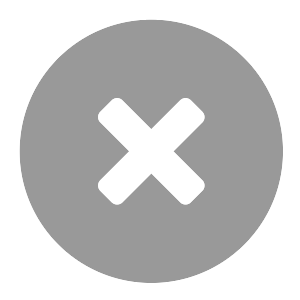
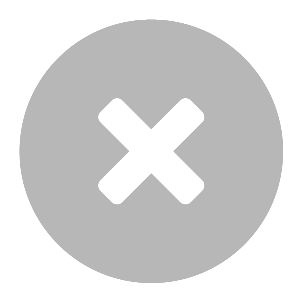
change

diff --git a/src/example/leader/company-detail.html b/src/example/leader/company-detail.html
@@ -218,6 +218,12 @@
             $('.link-delete').show();
             $('#change').hide();
             $('.link-alert').addClass('link-man');
+            if($('#legal-name').html()==''){
+                $('#add-legal').html('<div class="add-legal-person"><span class="add-icon">+</span>新增法人</div>');
+            };
+            if($('#legal-name').html()!=''){
+                $('#add-legal').hide();
+            };
             $('#empty-name').on('click',function(){
                 $('#input-change').val('');
                 $('#input-change').focus();
@@ -279,9 +285,6 @@
                     $('#police').html($(this).text());
                     var policeId = $(this).attr('id');
                     $('#container').data('data-add-policeId', policeId);
-                    if ($('#police').text() != '') {
-                        $('#icon2').hide();
-                    }
                     hideActionSheet();
                 });
             });
@@ -293,9 +296,6 @@
                     $('#fire').html($(this).text());
                     var fireId = $(this).data('fire');
                     $('#container').data('data-add-fireId',fireId);
-                    if($('#fire').text()!=''){
-                        $('#icon4').hide();
-                    }
                     hideActionSheet();
                 });
             });
@@ -329,6 +329,9 @@
                     $('#alert,#alertbackground').fadeOut(100);
                     var legalName = $('#legal-person-name').val();
                     $('#legal-name').html(legalName);
+                    if($('#legal-name').html()!=''){
+                        $('#add-legal').hide();
+                    }
                     var legalPhone = $('#legal-phone').val();
                     $('#mobile-num').html(legalPhone);
                     var legalCompanyNum = $('#legal-company-tel-num').val();
@@ -350,7 +353,7 @@
                 });
             });
             $('#news-change').after(
-                    '<div class="add-line" id="add-linkman"><span class="add">+</span>新增联系人<img src="images/icon-go.jpg" class="lt-img"/></div>'
+                    '<div class="add-line" id="add-linkman"><span class="add">+</span>新增联系人</div>'
             );
             //删除及添加修改联系人
             $('#add-linkman').on('click',function(){
@@ -448,7 +451,7 @@
             $('#save').on('click',function(){
                 $('.bd-right').css('margin-right','0');
                 $('.icon-go-width').hide();
-                $('link-delete').hide()
+                $('.link-delete').hide();
                 $('#classify').unbind();
                 $('#group').unbind();
                 $('#legal-person').unbind();
@@ -620,14 +623,14 @@
                                 '<div class="weui-cell__bd bd-right" id="company-name">'+
                                 company+
                                 '</div>'+
-                                '<img src="images/empty.png" class="icon-go-width" id="empty-name"/> '+
+                                '<img src="images/empty.png" class="icon-go-width empty-input" id="empty-name"/> '+
                                 '</div>'+
                                 '<div class="none-flex cell-border cell-margin">'+
                                 '<div class="weui-cell__hd"><label class="weui-label">企业地址</label></div>'+
                                 '<div class="weui-cell__bd bd-right place-top" id="company-place">'+
                                 address+
                                 '</div>'+
-                                '<img src="images/empty.png" class="icon-go-width" id="empty-place"/> '+
+                                '<img src="images/empty.png" class="icon-go-width empty-input" id="empty-place"/> '+
                                 '</div>'+
                                 '<div class="none-flex cell-border cell-margin">'+
                                 '<div class="weui-cell__hd"><label class="weui-label">企业分类</label></div>'+
@@ -659,7 +662,7 @@
                                 '</div>'+
                                 '<div class="head-title">法人</div>'+
                                 '<div class="none-flex cell-border cell-margin head-title-border" id="legal-person">'+
-                                '<div class="weui-cell__hd"><label class="weui-label" id="legal-name" data-cardid="'+legalPersonCard+'">'+legalPersonName+'</label></div>'+
+                                '<div class="weui-cell__hd"><label class="weui-label" id="legal-name" data-cardid="'+legalPersonCard+'">'+legalPersonName+'</label></div><div id="add-legal"></div>'+
                                 '<div class="weui-cell__bd bd-right">'+
                                 '<span id="mobile-num">'+legalPersonPhone+'</span><span id="symbol">/</span><span id="tel-num">'+legalPersonMobile+'</span>'+
                                 '</div>'+

diff --git a/src/example/leader/add-company.html b/src/example/leader/add-company.html
@@ -51,7 +51,7 @@
             </div>
             <div class="head-title">联系人</div>
                 <div id="link-box"></div>
-                <div class="add-line" id="add-linkman"><span class="add">+</span>新增联系人<img src="images/icon-go.jpg" class="lt-img"/></div>
+                <div class="add-line" id="add-linkman"><span class="add">+</span>新增联系人</div>
              </div>
             <div class="prompt active" id="notNull">请填选必填项</div>
         </div>
@@ -200,32 +200,30 @@
         $('#iosActionsheetCancel-police').on('click', hideActionSheet);
         $('#iosActionsheetCancel-fire').on('click', hideActionSheet);
         //选择企业分类
-        $.ajax({
-            type: "POST",
-            url: "api/companyType.json",
-            data:{userid:$('#userid').val()},
-            success: function (data) {
-                for(var i = 0;i<data.length;i++){
-                    $('#choice-list').append('<div class="weui-actionsheet__cell type-choice-name" id='+data[i].id+'>'+data[i].name+'</div>');
-                }
-            },
-            error: function () {
-                console.log("error");
-            }
-        });
-            $('#classify').on('click',function(){
-                $iosActionsheet.addClass('weui-actionsheet_toggle');
-                $iosMask.fadeIn(200);
-                $('.type-choice-name').on('click',function(){
-                    $('#classify').html($(this).text());
-                    var typeId = $(this).attr('id');
-                    $('#container').data('data-add-typeId',typeId);
-                    if($('#classify').text()!=''){
-                        $('#icon1').hide();
+        $('#classify').on('click',function(){
+            $('#choice-list').html('');
+            $.ajax({
+                type: "POST",
+                url: "api/companyType.json",
+                data:{userid:$('#userid').val()},
+                success: function (data) {
+                    for(var i = 0;i<data.length;i++){
+                        $('#choice-list').append('<div class="weui-actionsheet__cell type-choice-name" id='+data[i].id+'>'+data[i].name+'</div>');
                     }
-                    hideActionSheet();
-                });
+                    $iosActionsheet.addClass('weui-actionsheet_toggle');
+                    $iosMask.fadeIn(200);
+                    $('.type-choice-name').on('click',function(){
+                        $('#classify').html($(this).text());
+                        var typeId = $(this).attr('id');
+                        $('#container').data('data-add-typeId',typeId);
+                        hideActionSheet();
+                    });
+                },
+                error: function (mes) {
+                    console.log("error");
+                }
             });
+        });
         //选择辖区
         $.ajax({
             type: "POST",
@@ -247,12 +245,9 @@
                 $('#police').html($(this).text());
                 var policeId = $(this).attr('id');
                 $('#container').data('data-add-policeId', policeId);
-                if ($('#police').text() != '') {
-                    $('#icon2').hide();
-                }
                 hideActionSheet();
             });
-         });
+        });
         //选择企业组别
         $('#group').on('click',function(){
             $iosActionsheets.addClass('weui-actionsheet_toggle');
@@ -261,9 +256,6 @@
                 $('#group').html($(this).text());
                 var groupId = $(this).data('group');
                 $('#container').data('data-add-groupId',groupId);
-                if($('#group').text()!=''){
-                    $('#icon3').hide();
-                }
                 hideActionSheet();
             });
         });

diff --git a/src/example/leader/company.html b/src/example/leader/company.html
@@ -149,24 +149,24 @@
 
         function showCellAction(cell){
             isCellEditModel = true;
-            cell.find('.item-width').animate({width:'72%'},400,'linear');
-            cell.find('.size-new').animate({width:'195px'},400,'linear');
-            cell.parent().siblings().find('.delete-box').animate({right:'-101px'},400,'linear');
-            cell.siblings('.delete-box').animate({right:'0'},400,'linear');
+            cell.find('.item-width').animate({width:'72%'},200,'linear');
+            cell.find('.size-new').animate({width:'195px'},200,'linear');
+            cell.parent().siblings().find('.delete-box').animate({right:'-101px'},200,'linear');
+            cell.siblings('.delete-box').animate({right:'0'},200,'linear');
         }
 
         function hideCellAction(cell){
             isCellEditModel = false;
-            cell.find('.item-width').animate({width:'90%'},400,'linear');
-            cell.find('.size-new').animate({width:'220px'},400,'linear');
-            cell.siblings('.delete-box').animate({right:'-101px'},400,'linear');
+            cell.find('.item-width').animate({width:'90%'},200,'linear');
+            cell.find('.size-new').animate({width:'220px'},200,'linear');
+            cell.siblings('.delete-box').animate({right:'-101px'},200,'linear');
         }
 
         function hideAllCellAction(cell){
             isCellEditModel = false;
-            cell.find('.item-width').animate({width:'90%'},400,'linear');
-            cell.find('.size-new').animate({width:'220px'},400,'linear');
-            cell.parent().parent().find('.delete-box').animate({right:'-101px'},400,'linear');
+            cell.find('.item-width').animate({width:'90%'},200,'linear');
+            cell.find('.size-new').animate({width:'220px'},200,'linear');
+            cell.parent().parent().find('.delete-box').animate({right:'-101px'},200,'linear');
         }
 
         var currDataListCfg = {

diff --git a/src/example/example.less b/src/example/example.less
@@ -1991,7 +1991,7 @@ body, .page {
     color: #ff5a54;
     width: 40px;
     height: 65px;
-    line-height: 56px;
+    line-height: 57px;
     text-align: center;
     font-family: 微软雅黑;
     position: absolute;
@@ -2038,4 +2038,29 @@ body, .page {
     position: absolute;
     top: 23px;
     right: 5px;
+}
+.empty-input{
+    width: 18px;
+    height: 18px;
+    opacity: 0.7;
+}
+.add-legal-person{
+    position: absolute;
+    top: 13px;
+    left: 0;
+    font-size: 16px;
+    font-weight: 900;
+}
+.add-icon{
+    width: 14px;
+    height: 14px;
+    float: left;
+    border: 1px solid #55A3E7;
+    border-radius: 10px;
+    color: #55A3E7;
+    margin-top: 5px;
+    font-size: 14px;
+    line-height: 14px;
+    text-align: center;
+    margin-right: 8px;
 }
